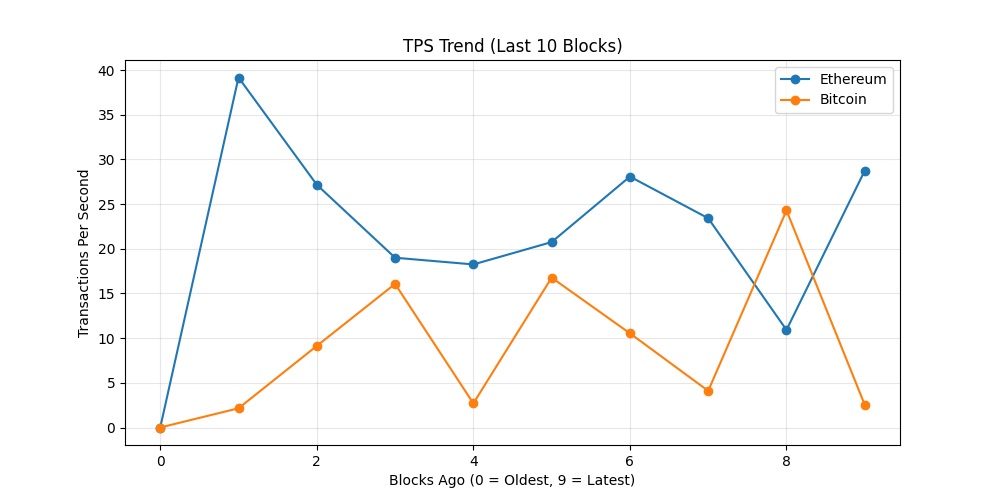
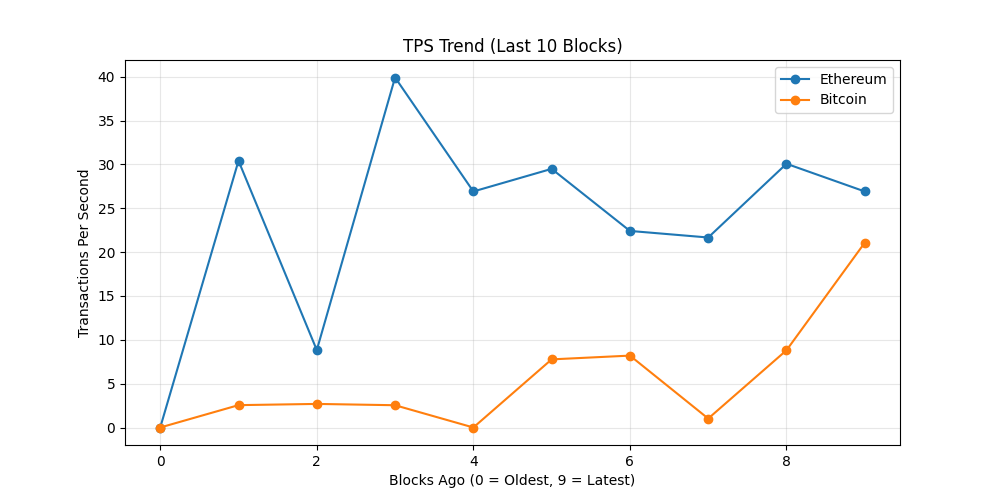
chore: update on-chain dashboard

diff --git a/README.md b/README.md
@@ -5,7 +5,7 @@ Author: Hitesh Agrawal (hitesha1981@gmail.com)
 This repository implements an automated, on-chain reliability and activity dashboard
 for major blockchain networks using direct JSON-RPC calls via GetBlock.io.
 
-The system periodically (once every 24h) collects low-level network signals such as:
+The system periodically (Runs every 6 hours, 15 minute past the hour) collects low-level network signals such as:
 - latest block height
 - transaction throughput per block
 - fee pressure indicators
@@ -15,11 +15,11 @@ All data is gathered directly from blockchain RPC endpoints (no price or market 
 rendered into human-readable tables and charts using Python and Matplotlib, and published
 as a self-updating README via GitHub Actions.
 
-The README itself acts as the dashboard and is regenerated automatically on a 24 Hour schedule,
+The README itself acts as the dashboard and is regenerated automatically on a 6 Hour schedule,
 demonstrating a production-style, infrastructure-focused observability workflow rather
 than a traditional UI-driven approach.
 
-_Last updated: 2026-01-03 02:46 UTC_
+_Last updated: 2026-01-03 06:47 UTC_
 
 ## API Usage (GetBlock.io)
 - Calls used: **24**
@@ -27,8 +27,8 @@ _Last updated: 2026-01-03 02:46 UTC_
 ## Network Metrics
 | Chain | Block Height | TX Count | TPS (10 blk avg) | Block Util | Avg Fee |
 |------|-------------|----------|------------------|------------|---------|
-| Ethereum | 24151219 | 345 | 28.75 | 43.12% | 0.0 Gwei |
-| Bitcoin | 930646 | 3437 | 2.53 | 99.79% | N/A |
+| Ethereum | 24152423 | 323 | 26.92 | 66.71% | 0.0 Gwei |
+| Bitcoin | 930670 | 3247 | 21.08 | 99.79% | N/A |
 
 ## Visuals
 ### Transactions Trend
@@ -43,11 +43,8 @@ _Last updated: 2026-01-03 02:46 UTC_
 ## Whale Alerts (latest block)
 - Transaction hashes are truncated for readability.
 - Full hashes are available in `dashboards/metrics.json`
-- Bitcoin | 19659.22 BTC | `383379432495…`
-- Bitcoin | 233.98 BTC | `18dee290f5a1…`
-- Bitcoin | 956.28 BTC | `f49c5e1ea02f…`
-- Bitcoin | 101.34 BTC | `5ccf4730cd8e…`
-- Bitcoin | 108.75 BTC | `c17ae5a46232…`
+- Bitcoin | 100.01 BTC | `236bef29d935…`
+- Bitcoin | 4519.7 BTC | `e5b77fada956…`
 
 ## Run locally
 
@@ -77,7 +74,7 @@ uv run python -m scripts.render_readme
 
 ## How the system works
 
-1. GitHub Actions runs every 24 hours
+1. GitHub Actions runs every 6 hours, 15 minute past the hour
 2. Chain-specific collectors fetch on-chain metrics
 3. API usage is counted centrally
 4. Metrics are written to JSON
